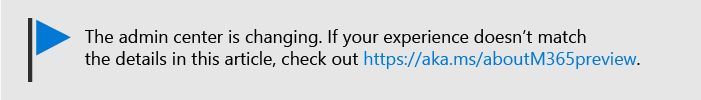
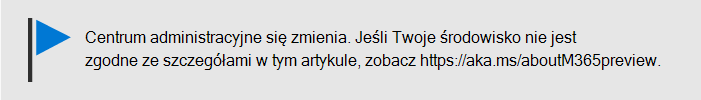
commit translated contents

Changed region(s): [[0.1198, 0.51, 0.9586, 0.72], [0.1198, 0.3, 0.8388, 0.48]]

diff --git a/microsoft-365/business/help-users-install-office.md b/microsoft-365/business/help-users-install-office.md
@@ -26,19 +26,19 @@ search.appverid:
 - BCS160
 - MET150
 ms.assetid: cbc6bfe5-565a-4fb8-95f0-b06e7b74ac46
-description: Pomóż użytkownikom instalować Office na Windows 10 urządzeniach i łatwo instalować aplikacje Office na Windows 10 PC z centrum Microsoft 365 administracyjnego.
-ms.openlocfilehash: 74c17533995b74655be57524b77d9c508f703c50
-ms.sourcegitcommit: ff20f5b4e3268c7c98a84fb1cbe7db7151596b6d
+description: Pomóż użytkownikom instalować Office na urządzeniach Windows 10 i łatwo Office instalować aplikacje na Windows 10 PC z komputera centrum administracyjne platformy Microsoft 365.
+ms.openlocfilehash: bfd0d9baba177bd68b4d3174eba7c5ffb3a38aa8c690c7b8314e5b298bdbdfc1
+ms.sourcegitcommit: a1b66e1e80c25d14d67a9b46c79ec7245d88e045
 ms.translationtype: MT
 ms.contentlocale: pl-PL
-ms.lasthandoff: 05/06/2021
-ms.locfileid: "52245169"
+ms.lasthandoff: 08/05/2021
+ms.locfileid: "53821020"
 ---
 # <a name="help-your-users-install-office-on-windows-10-devices"></a>Pomaganie użytkownikom w Office na Windows 10 urządzeniach
 
 [![Etykieta informująca, że centrum administracyjne zmienia się, a więcej informacji na ten temat możesz znaleźć w witrynie aka.ms/aboutM365preview.](../media/m365admincenterchanging.png)](/office365/admin/microsoft-365-admin-center-preview)
 
-Możesz szybko i łatwo zainstalować Office na Windows 10 PC z Microsoft 365 administracyjnego.
+Możesz szybko i łatwo zainstalować Office na Windows 10 PC z komputerach centrum administracyjne platformy Microsoft 365.
   
 Aby dowiedzieć się, jak to działa w przypadku wcześniej zainstalowanych aplikacji pakietu Office, przed rozpoczęciem przeczytaj artykuł na temat [przygotowywania się do instalacji aplikacji klienckich pakietu Office](prepare-for-office-client-deployment.md).
 

diff --git a/microsoft-365/business/create-and-edit-autopilot-profiles.md b/microsoft-365/business/create-and-edit-autopilot-profiles.md
@@ -27,12 +27,12 @@ search.appverid:
 - MOE150
 ms.assetid: 5cf7139e-cfa1-4765-8aad-001af1c74faa
 description: Dowiedz się, jak utworzyć profil rozwiązania AutoPilot i zastosować go do urządzenia, a także edytować lub usunąć profil albo usunąć profil z urządzenia.
-ms.openlocfilehash: 414243da88fb6f39f8e6067d19d49ffe955f725f
-ms.sourcegitcommit: 53acc851abf68e2272e75df0856c0e16b0c7e48d
+ms.openlocfilehash: d2a3038346b7879006dc2eb50ebe2e70cc6fae92c020a38465cec9d468c638b2
+ms.sourcegitcommit: a1b66e1e80c25d14d67a9b46c79ec7245d88e045
 ms.translationtype: MT
 ms.contentlocale: pl-PL
-ms.lasthandoff: 04/02/2021
-ms.locfileid: "51580259"
+ms.lasthandoff: 08/05/2021
+ms.locfileid: "53797231"
 ---
 # <a name="create-and-edit-autopilot-profiles"></a>Tworzenie i edytowanie profilów rozwiązania AutoPilot
 
@@ -40,7 +40,7 @@ ms.locfileid: "51580259"
 
 Profil dotyczy urządzenia lub grupy urządzeń.
   
-1. W centrum administracyjnym platformy Microsoft 365 wybierz pozycję **Devices** \> **AutoPilot (Rozwiązania rozwiązania Devices AutoPilot).**
+1. W centrum administracyjne platformy Microsoft 365 wybierz **pozycję Devices** \> **AutoPilot (Rozwiązania rozwiązania Devices AutoPilot).**
   
 2. Na stronie **AutoPilot** wybierz kartę **Profile** Utwórz \> **profil.**
     
